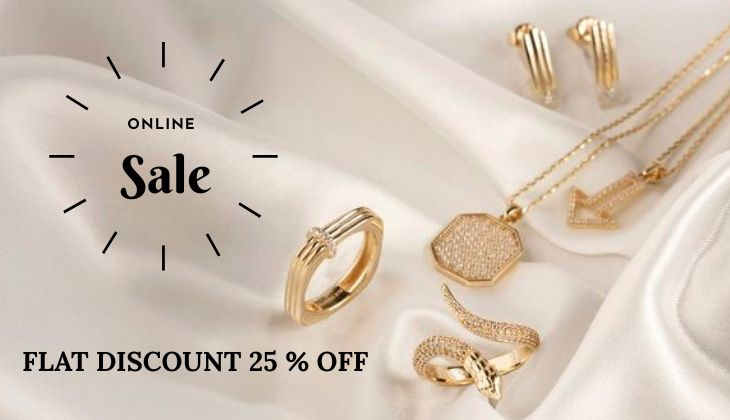
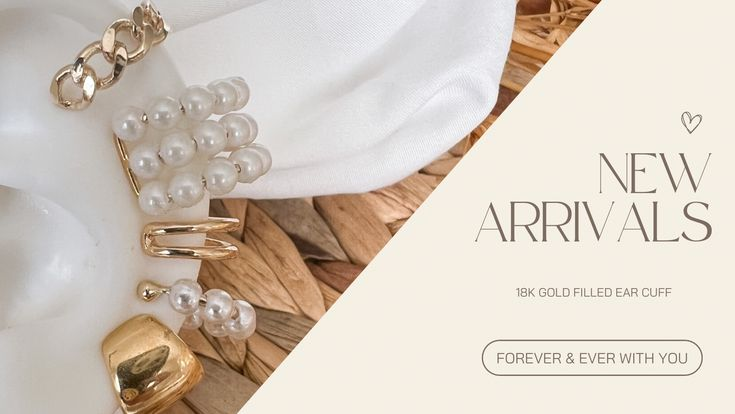
Add project screenshots

diff --git a/app/(tabs)/home.tsx b/app/(tabs)/home.tsx
@@ -56,7 +56,7 @@ export default function Home() {
             </TouchableOpacity>
           </View>
           <ScrollView
-            style={{ gap: 10, padding: 10 }}
+            style={{ gap: 10, padding: 10, backgroundColor: colors.background }}
             horizontal
             pagingEnabled
             showsHorizontalScrollIndicator={false}

diff --git a/src/components/CategoryChip.tsx b/src/components/CategoryChip.tsx
@@ -1,6 +1,5 @@
 import { router } from "expo-router";
 import { Image, StyleSheet, Text, TouchableOpacity, View } from "react-native";
-
 type CategoryProps = {
   title: string;
   image: any;